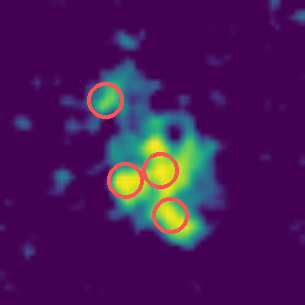
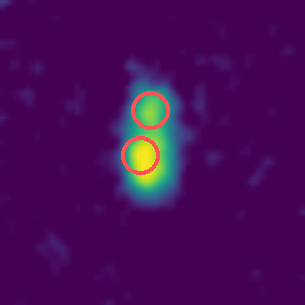
Tutorial: clearer example galaxy, cleaner captions

diff --git a/index.html b/index.html
@@ -195,15 +195,21 @@ body{overflow-x:clip}
     <h2>How to classify — a quick tutorial</h2>
     <p><strong>Step 1 — Find the galaxy.</strong> Flip to the last two greyscale frames (VIS and NISP-Y) to see where the galaxy sits, then come back to the Hα frame. Real clumps sit <em>on</em> the galaxy, so knowing where it is makes everything easier. The VIS blend slider fades the starlight image in underneath the Hα map if you want to see both at once.</p>
     <p><strong>Step 2 — Circle every clump.</strong> A clump is a compact bright knot that sits on the galaxy and stands out from its surroundings. Press on the centre of a knot and drag outward until the circle wraps around it. Drag a circle to move it, drag its rim to resize it, and tap it and press ✕ to delete it. You can draw circles on <em>any</em> emission-line frame, not only Hα — every circle records which map it was drawn on.</p>
-    <figure style="margin:6px 0 16px;max-width:305px">
-      <img src="tut_circles.png" alt="A clumpy galaxy in Hα with four bright knots, each marked with a red circle" style="width:100%;border-radius:8px;display:block">
-      <figcaption style="font-size:12.5px;color:var(--muted);margin-top:6px">A lumpy galaxy with its clumps circled — this is what a finished classification looks like. Each knot gets its own circle.</figcaption>
+    <figure style="margin:16px 0;max-width:305px">
+      <img src="tut_circles.png" alt="A galaxy in Hα with two bright knots, each marked with a red circle" style="width:100%;border-radius:8px;display:block">
+      <figcaption style="font-size:12.5px;color:var(--muted);margin-top:6px"><strong>Circle these.</strong> Two clumps, two circles — each bright knot gets its own. This is what a finished classification looks like.</figcaption>
     </figure>
     <p><strong>Step 3 — Know what <em>not</em> to circle.</strong> Isolated bright specks scattered far from the galaxy are noise. Long diagonal streaks are contamination from the spectra of other objects in the field — an instrumental artifact, not emission.</p>
-    <figure style="margin:6px 0 16px;max-width:640px">
-      <img src="tut_dontcircle.png" alt="Two maps: an isolated noise speck and a diagonal contamination streak, each marked with a dashed circle and a red cross" style="max-width:100%;border-radius:8px;display:block">
-      <figcaption style="font-size:12.5px;color:var(--muted);margin-top:6px">Leave these alone: specks that don't sit on the galaxy, and diagonal streaks. If a streak crosses the map, pick "Artifact present" in the quality question instead.</figcaption>
-    </figure>
+    <div style="display:flex;gap:16px;flex-wrap:wrap;margin:16px 0">
+      <figure style="margin:0;flex:1 1 240px;max-width:305px">
+        <img src="tut_noise.png" alt="A map full of scattered specks, one isolated speck marked with a dashed circle and a red cross" style="width:100%;border-radius:8px;display:block">
+        <figcaption style="font-size:12.5px;color:var(--muted);margin-top:6px"><strong>Not this.</strong> An isolated speck away from the galaxy is noise — leave it alone.</figcaption>
+      </figure>
+      <figure style="margin:0;flex:1 1 240px;max-width:305px">
+        <img src="tut_streak.png" alt="A map with a bright diagonal streak, one segment marked with a dashed circle and a red cross" style="width:100%;border-radius:8px;display:block">
+        <figcaption style="font-size:12.5px;color:var(--muted);margin-top:6px"><strong>Not this either.</strong> A diagonal streak is contamination, not emission — pick "Artifact present" instead.</figcaption>
+      </figure>
+    </div>
     <p><strong>Step 4 — Answer the two questions.</strong> Rate the Hα map (clean, noisy-but-usable, artifact-contaminated, or unusable), and tick any other line where you see emission at the galaxy's position. Leaving boxes unticked is normal.</p>
     <p><strong>Step 5 — Submit.</strong> If you see no clumps, that is a perfectly good answer — press <em>Submit &amp; next</em> without drawing anything. If you are unsure, give it your best guess; several people see every image, so no single answer decides anything.</p>
     <p><strong>The contrast controls are yours.</strong> Faint clumps often appear when you lower the floor or raise the softness; hard stretches sharpen bright knots. The <strong>VIS blend</strong> slider fades the starlight image in under any emission-line frame, so you can check that a knot really sits on the galaxy. Adjusting these affects only your view, never the data.</p>
